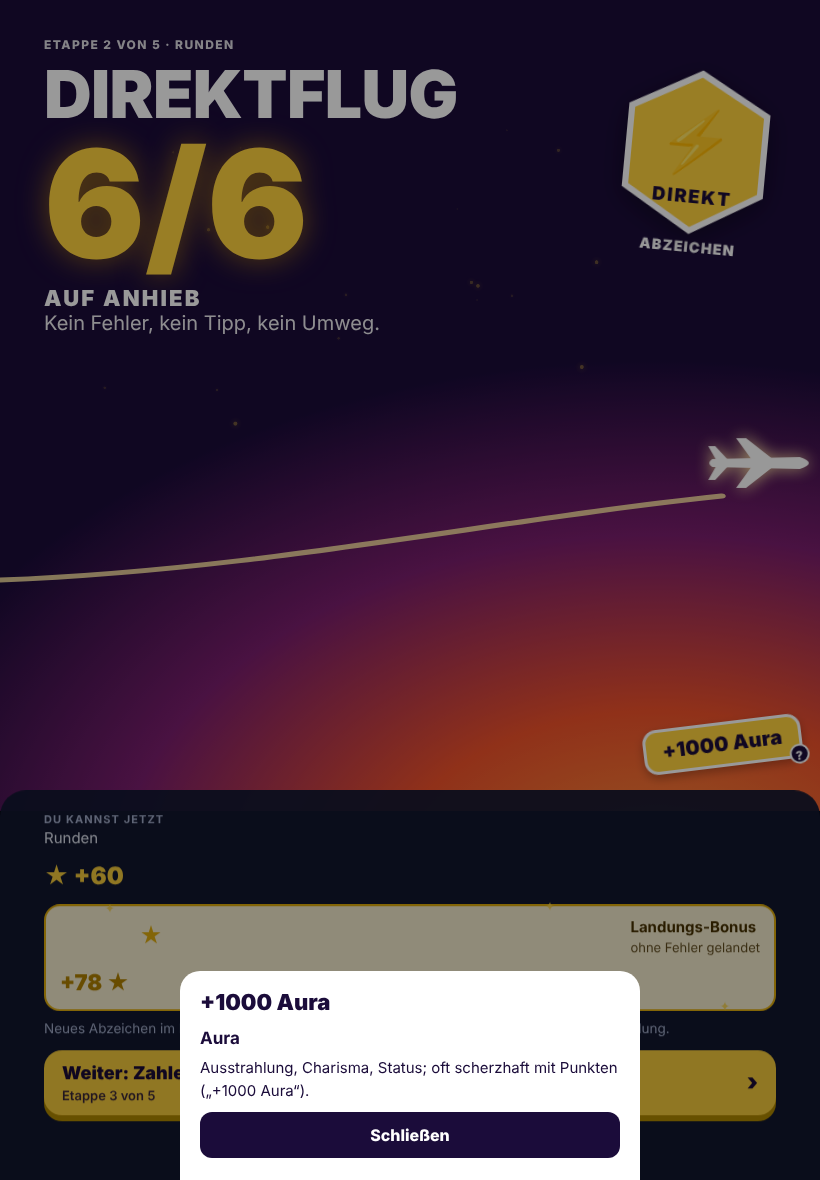
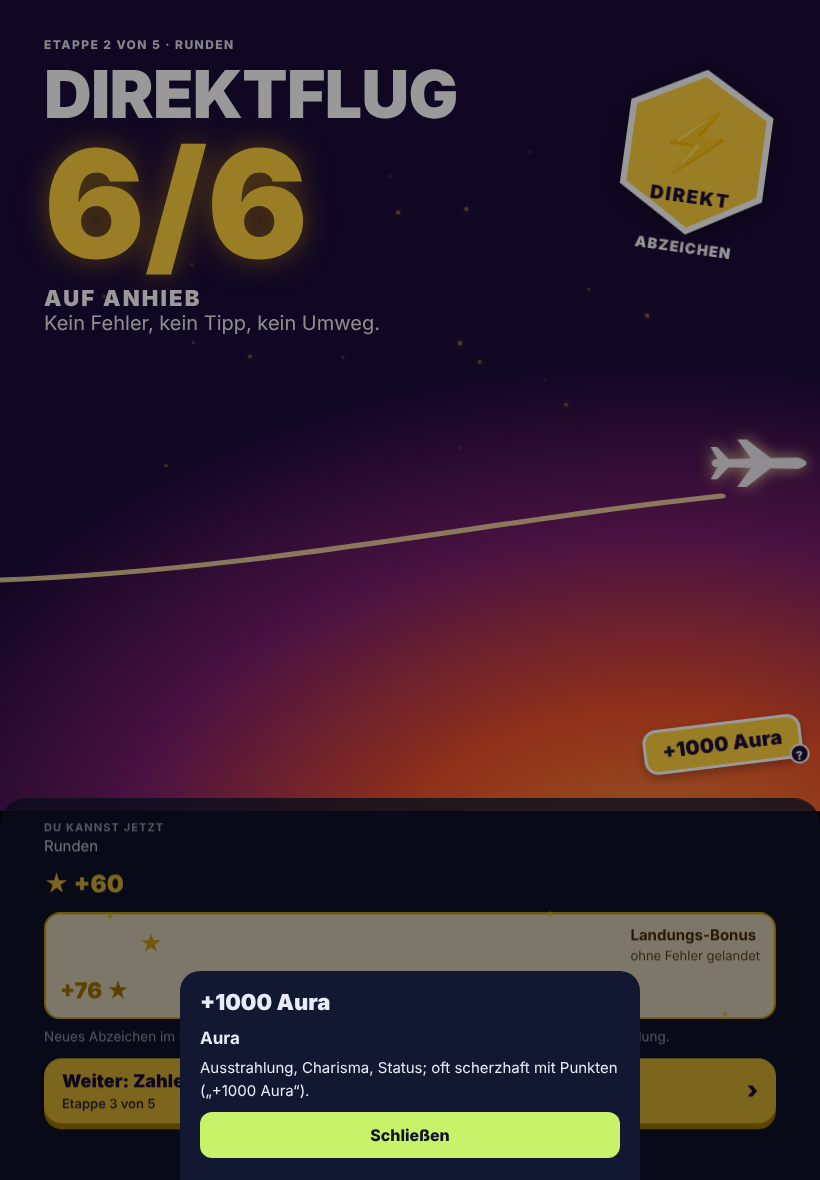
KJ 2 (0.93.1): M1 Zur Reisekarte als Textlink (nachts lesbar), M2 keine Mini-Linien auf der Abflugtafel; S1 Anrede-Sticker auf der Ecke der ersten Karte unter 600 px, S2 Fortschritt vor Zusatz, S3 ein Zähler beim Nachbessern, S4 Nachtfarben, S5 Lehrer (Fahrplan-Kopf, Stand-Satz, + n Zusatz in der Gr
Claude-Session: https://claude.ai/code/session_01RWRKSAaEXiAwwpv8KARTkF

diff --git a/lernen.js b/lernen.js
@@ -1458,6 +1458,7 @@ async function viewReise(arg) {
     }
     lernErsetze(main, lernRahmen(kind, 'reise', ...lernAbflugtafel(d, { n, et, nWdh, wdhRest, wdhFertig: wdhGemacht, ort, ws }),
       (mitKarte || lernRkAnsicht(kind.id) === 'tafel') ? el('button', { type: 'button', class: 'lr-textlink rk-zur-karte', onclick: () => { lernRkAnsicht(kind.id, 'karte'); render(); } }, 'Zur Reisekarte ›') : null));
+    lernDockErstNachTafel(main); // KJ 2 S6
     lernExFreiBeimStart(d); if (!document.querySelector('.lr-abschluss')) lernZpGeschafftZeigen(d); return;
   }
   const teile = [el('header', { class: 'lr-kopf lr-kopf-kurz' }, el('p', { class: 'lr-gruss' }, `Hallo ${kind.name}!`)), lernExKarte(d), lernNachbuchungHinweis(d)].filter(Boolean);
@@ -1594,29 +1595,31 @@ function lernAbflugtafel(d, { n, et, nWdh, wdhRest = 0, wdhFertig = false, ort =
       el('p', {}, el('b', {}, n.titel), ' sitzt noch nicht ganz sicher – das hat der Nachtest gezeigt. Wir frischen es kurz auf.'),
       danach ? el('p', { class: 'lr-leise' }, `Danach geht es weiter mit ${danach.stadt}: ${danach.titel}.`) : null)
     : frueher ? el('p', { class: 'lr-leise lr-rueckreise-hinweis' }, `${n.titel} ist Stoff aus Klasse ${kl(n)}. Du brauchst ihn für das, was danach kommt.`) : null;
+  const anrede = lernJwPlatz(kind.id, 'anrede', 'anrede', () => lernJwAnrede(kind.id));
+  const ecke = (karte) => { if (karte && anrede && innerWidth < 600) { karte.classList.add('lr-jw-ecke-traeger'); anrede.classList.add('lr-jw-ecke'); karte.append(anrede); } return karte; };
+  const ersteKarte = (d.nachbessern || []).length ? lernNbKarte(d) : null;
   return [
     el('header', { class: 'lr-kopf lr-tafelkopf' }, el('h1', { class: 'lr-titel' }, 'Abflüge · ', kind.name),
-      lernJwPlatz(kind.id, 'anrede', 'anrede', () => lernJwAnrede(kind.id)), // JW: Anrede „Digga“ einmal je Lerntag
+      innerWidth >= 600 ? anrede : null, // JW: Anrede „Digga“ einmal je Lerntag (KJ 2 S1: unter 600 px auf der Ecke der ersten Karte)
       el('a', { class: 'lr-chip-stern', href: `#/reisepass/${kind.id}`, 'aria-label': `${lernZahl(d.konto?.sterne ?? 0)} Sterne – zum Reisepass` }, '★ ' + lernZahl(d.konto?.sterne ?? 0))),
     // K3: oben drei Mini-Linien GYM · RS · IB; Antippen öffnet „Mein Weg · Stand“ bei dieser Schulart
     // KJ §0: Nachbessern immer zuerst; solange es ansteht, ist die Expedition nur ein Chip
-    (d.nachbessern || []).length ? [lernNbKarte(d), lernExChip(d)] : lernExKarte(d), // EX-App: offene Expedition = oberste, größte Karte, vor dem nächsten Flug
+    (d.nachbessern || []).length ? [ecke(ersteKarte), lernExChip(d)] : lernExKarte(d), // EX-App: offene Expedition = oberste, größte Karte, vor dem nächsten Flug
     rueckKarte,
     lernNachbuchungHinweis(d),
-    el('section', { class: 'lr-abflugtafel', 'aria-label': 'Abflugtafel' },
+    (ersteKarte ? (x) => x : ecke)(el('section', { class: 'lr-abflugtafel', 'aria-label': 'Abflugtafel' },
       el('a', { class: 'lr-flug lr-flug-jetzt', href: ziel },
         el('span', { class: 'lr-flug-ort' }, el('span', { class: 'lr-klapp', role: 'img', 'aria-label': code(n) }, ...[...code(n).slice(0, 9)].map((c, i) => el('i', { style: `--i:${i}` }, c))), el('small', {}, n.titel)),
         el('span', { class: 'lr-flug-status lr-einsteigen' }, el('b', {}, n.laeuft ? 'TEST LÄUFT' : testDran ? 'TEST BEREIT' : 'EINSTEIGEN'), et.n ? el('small', {}, testDran ? 'alle Etappen sitzen' : `${offen} von ${et.n} Etappen offen`) : null)),
       ...weitere.slice(0, maxZ).map((e) => zeile(e, e.geschafft ? 'GELANDET' : e.fertig ? 'UNTERWEGS' : 'WARTET', e.geschafft ? ' lr-flug-gelandet' : '')),
       ...d.kann.slice(0, 1).map((e) => zeile(e, 'GELANDET', ' lr-flug-gelandet')),
-      ...d.spaeter.slice(0, 1).map((e) => zeile(e, `AB KLASSE ${kl(e) ?? ''}`.trim(), ' lr-flug-spaeter'))),
+      ...d.spaeter.slice(0, 1).map((e) => zeile(e, `AB KLASSE ${kl(e) ?? ''}`.trim(), ' lr-flug-spaeter')))),
     // 0.87.2 S1: Ansage direkt unter der Abflugtafel (vor Fortschritt und Stempel) – auf dem Handy im Blick
     nWdh && !n.laeuft && !testDran ? (ws?.neu ? lernCheckinAnsage(ws) : el('p', { class: 'lr-leise lr-start-info' }, `Erst ${nWdh} ${nWdh === 1 ? 'Wiederholung' : 'Wiederholungen'}, dann ${n.stadt}.`)) : null,
+    band, // KJ 2 S2: Fortschrittslinie gehört zu „Gerade dran“ – vor der Zusatz-Karte
     lernZpKarte(d), // KJ §0.4: Zusatz · eingeplant unter „Gerade dran“
-    band,
     lernSjKarte(d), // KJ §0.5: Mein Schuljahr
-    // EX K2: Stand-Kacheln GYM · RS · IB stehen unter der Abflugtafel (die Expedition ist wörtlich die oberste Karte)
-    d.u && kind.klasse ? lernMiniLinien(lernStandModell(d.u, kind), (y, kl) => `#/weg/${kind.id}-stand${kl ? `-${y.sa}-${kl}` : ''}`) : null,
+    // KJ 2 M2: keine Mini-Linien GYM · RS · IB mehr auf der Abflugtafel (widersprachen „Mein Schuljahr“); sie bleiben unter „Meine Route 5–10“ bzw. im Linienplan
     el('div', { class: 'lr-tafelchips' }, el('a', { href: `#/reisepass/${kind.id}` }, `◎ ${d.konto?.stempel ?? 0} Stempel`), el('span', {}, 'Abflug, wann es dir passt')),
     lernKnobelDesTages(d),
     wdhRest ? el('a', { class: 'lr-textlink', href: `#/wiederholen/${kind.id}` }, `Noch ${wdhRest} ${wdhRest === 1 ? 'Wiederholung' : 'Wiederholungen'} offen – wenn du magst`) : null,
@@ -1644,6 +1647,14 @@ function lernAbflugtafel(d, { n, et, nWdh, wdhRest = 0, wdhFertig = false, ort =
   ];
 }
 
+// KJ 2 S6: Die schwebende „Einsteigen“-Leiste erscheint erst, wenn die Abflugtafel (ihre Zeile mit dem gelben „EINSTEIGEN“) aus dem Bild gescrollt ist – nie zweimal derselbe Knopf übereinander.
+// Ausgeblendet nur unsichtbar und nicht tippbar (bleibt im Ablauf, kein Springen); ohne IntersectionObserver wie bisher.
+function lernDockErstNachTafel(wurzel) {
+  const tafel = wurzel.querySelector('.lr-abflugtafel .lr-flug-jetzt') || wurzel.querySelector('.lr-abflugtafel'); const dock = wurzel.querySelector('.lr-dock-start'); if (!tafel || !dock || !('IntersectionObserver' in window)) return;
+  dock.classList.add('lr-dock-weg');
+  const io = new IntersectionObserver((xs) => { if (!dock.isConnected) { io.disconnect(); return; } const x = xs[xs.length - 1]; dock.classList.toggle('lr-dock-weg', x.isIntersecting); }, { threshold: 0 });
+  io.observe(tafel);
+}
 // ---------- KJ (0.93.0): drei Karten der Kinderseite – Vorgabe inhalte/pruefung/kind/karten/umsetzung.md ----------
 // Reihenfolge: Nachbessern (immer zuerst) · Expedition (bei Nachbessern nur als Chip) · Gerade dran · Zusatz · eingeplant · Mein Schuljahr.
 const lernEinheitVon = (d, id) => (d.mit || []).find((x) => Number(x.id) === Number(id)) || (d.u?.einheiten || []).find((x) => Number(x.id) === Number(id)) || {};
@@ -3302,7 +3313,8 @@ function lernJwAnrede(kindId, opts = {}) {
 function lernJwBedeutung(z, vorher) {
   document.querySelectorAll('.lr-jw-blatt').forEach((x) => x.remove());
   const zu = () => { blatt.remove(); vorher?.focus?.({ preventScroll: true }); };
-  const blatt = el('div', { class: 'lr-jw-blatt', role: 'dialog', 'aria-modal': 'true', 'aria-label': 'Bedeutung', onclick: (ev) => { ev.stopPropagation(); if (ev.target === blatt) zu(); } },
+  const nacht = !!vorher?.closest?.('.lr-abflug-nacht, .lr-nacht, .lr-ab-nacht'); // KJ 2 K2a: nachts dunkel wie die übrigen Blätter
+  const blatt = el('div', { class: 'lr-jw-blatt' + (nacht ? ' lr-jw-blatt-nacht' : ''), role: 'dialog', 'aria-modal': 'true', 'aria-label': 'Bedeutung', onclick: (ev) => { ev.stopPropagation(); if (ev.target === blatt) zu(); } },
     el('div', { class: 'lr-jw-blatt-innen' },
       el('p', { class: 'lr-jw-blatt-sticker' }, z.sticker),
       ...z.wortListe.filter((w) => !(w.id === 'digga' && z.wortListe.length > 1)).map((w) => el('div', { class: 'lr-jw-wort' }, el('b', {}, w.wort), w.gesprochen ? el('small', {}, ` · gesprochen „${w.gesprochen}“`) : null,
@@ -3702,6 +3714,12 @@ function lernThemaSeite(ctx, etappen, start, karteNr) {
   };
   const zeichneUeben = () => {
     const e = aktKarte; gezeichnet = e;
+    // NB-App: wieder offene Etappe (schule_konto.nachbessern) – Folge x von 3; KJ 2 S3: die Nachbessern-Leiste ersetzt den Zähler der Etappen-Leiste
+    const nbE = (ctx.konto?.nachbessern || []).find((x) => Number(x.einheit_id) === Number(ctx.einheit) && x.lernziel === e.lernziel) || null;
+    const nb = nbE ? { folge: Math.max(0, Number(nbE.folge) || 0), noetig: Number(nbE.folge_noetig) || 3 } : null;
+    const nbLeiste = el('div', { class: 'lr-nb-leiste', role: 'status' });
+    const nbZeichnen = () => { if (!nb) return; lernErsetze(nbLeiste, el('b', {}, '↻ NACHBESSERN'), lernNbKreise(Math.min(nb.folge, nb.noetig), nb.noetig), el('span', {}, `${Math.min(nb.folge, nb.noetig)} von ${nb.noetig} in Folge`)); };
+    nbZeichnen();
     const mitAufg = etappen.filter((x) => x.aufgaben.length); const pos = mitAufg.indexOf(e);
     const wechsel = (d) => el('button', { type: 'button', class: 'lr-pfeilknopf', 'aria-label': d < 0 ? 'Vorige Etappe' : 'Nächste Etappe', disabled: !mitAufg[pos + d],
       onclick: () => { aktKarte = mitAufg[pos + d]; stufe = 0; weiterueben = false; zeichneUeben(); } }, d < 0 ? '‹' : '›');
@@ -3710,7 +3728,7 @@ function lernThemaSeite(ctx, etappen, start, karteNr) {
       ...[[0, 'alle'], [1, 'leicht'], [2, 'mittel'], [3, 'schwer']].filter(([n]) => !n || stufenDa.includes(n))
         .map(([n, t]) => el('button', { type: 'button', class: stufe === n ? 'on' : '', 'aria-pressed': String(stufe === n), onclick: () => { stufe = n; zeichneUeben(); } }, t))) : null;
     const punkte = el('div', { class: 'lr-lk-punkte' });
-    const zeichnePunkte = () => e.neueRegel
+    const zeichnePunkte = () => nb ? lernErsetze(punkte, nbLeiste) : e.neueRegel
       // W176: Checkliste statt Punkten; daneben der Zähler „heute selbst gelöst“
       ? lernErsetze(punkte, e.sitzt || e.fertig ? el('small', {}, e.faellig ? 'Gelandet – heute wiederholen' : e.sicher ? 'Sicher! Du kannst trotzdem weiterüben.' : 'Gelandet! Du kannst trotzdem weiterüben.') : lernCheckliste(e),
         el('small', { class: 'lr-heute' }, `heute ${lernHeute(ctx.kind)} ${lernHeute(ctx.kind) === 1 ? 'Aufgabe' : 'Aufgaben'} selbst gelöst`))
@@ -3741,11 +3759,6 @@ function lernThemaSeite(ctx, etappen, start, karteNr) {
     let sterne = 0, nr = 0, fehlFolge = 0, richtFolge = 0; // richtFolge: JW-Serie 5/10 in Folge richtig; fehlFolge: falsche Bordkarten hintereinander auf dieser Karte (V8)
     const naechsteKarte = etappen.slice(e.nr).find((x) => !x.fertig && x.aufgaben.length) || etappen.find((x) => x !== e && !x.fertig && x.aufgaben.length);
     // NB-App: wieder offene Etappe (schule_konto.nachbessern) – Leiste über der Bordkarte, Folge x von 3; bei 3 in Folge „Sitzt wieder!“ statt der Landung
-    const nbE = (ctx.konto?.nachbessern || []).find((x) => Number(x.einheit_id) === Number(ctx.einheit) && x.lernziel === e.lernziel) || null;
-    const nb = nbE ? { folge: Math.max(0, Number(nbE.folge) || 0), noetig: Number(nbE.folge_noetig) || 3 } : null;
-    const nbLeiste = el('div', { class: 'lr-nb-leiste', role: 'status' });
-    const nbZeichnen = () => { if (!nb) return; lernErsetze(nbLeiste, el('b', {}, `↻ NACHBESSERN · ${nbE.etappe || e.titel}`), lernNbKreise(Math.min(nb.folge, nb.noetig), nb.noetig), el('span', {}, `${Math.min(nb.folge, nb.noetig)} von ${nb.noetig} in Folge`)); };
-    nbZeichnen();
     const nbFertig = () => { // Bestätigung (kurz, ohne Extra-Sterne): drei Haken, „Sitzt wieder!“, weiter zur nächsten Nachbessern-Etappe bzw. zum nächsten Flug
       const rest = (ctx.konto?.nachbessern || []).filter((x) => x !== nbE); if (ctx.konto) ctx.konto.nachbessern = rest; lernVergessen(ctx.kind);
       const nf = ctx.u ? lernReiseDaten(ctx.u, ctx.kind)?.naechste : null;
@@ -3943,7 +3956,7 @@ function lernThemaSeite(ctx, etappen, start, karteNr) {
       auf.node.addEventListener('keydown', (ev) => { if (ev.key === 'Enter' && ev.target.tagName === 'INPUT') { ev.preventDefault(); if (pruefen.isConnected) pruefen.click(); } });
       if (neu) {
         lernErsetze(dock, auf.tasten ? lernTastenfeld(auf.tasten, pruefen) : pruefen);
-        lernErsetze(flaeche, erkl, erklBox, nb && !a.misch ? nbLeiste : null,
+        lernErsetze(flaeche, erkl, erklBox,
           el('section', { class: 'lr-karte-box lr-aufgabe lr-bordkarte' },
             el('div', { class: 'lr-bord-kopf' }, el('span', {}, a.misch ? `BORDKARTE ${nr} · AUS DEINER REISE` : `BORDKARTE ${nr} · ${ortCode}`), lernStufeZeichen(a)),
             a.misch ? el('p', { class: 'lr-misch-hinweis' }, 'Aus deiner Reise – erkennst du, was gefragt ist?') : null,
@@ -3952,7 +3965,7 @@ function lernThemaSeite(ctx, etappen, start, karteNr) {
           hilfeBox, meldung,
           ctx.leitung ? lernAendern({ einheit_id: ctx.einheit, lernziel: e.lernziel, aufgabe_id: a.id, lernender_id: ctx.kind }, { bezug: 'bordkarte', wo: `Bordkarte „${String(a.frage?.text || '').slice(0, 60)}“` }) : null, dock);
       } else lernErsetze(flaeche,
-        erkl, erklBox, nb && !a.misch ? nbLeiste : null,
+        erkl, erklBox,
         el('section', { class: 'lr-karte-box lr-aufgabe' },
           el('p', { class: 'lr-ueber' }, `AUFGABE ${nr} `, lernStufeZeichen(a)), a.misch ? el('p', { class: 'lr-misch-hinweis' }, 'Aus deiner Reise – erkennst du, was gefragt ist?') : null, auf.node,
           pruefen, tipp ? el('div', { class: 'lr-knopfzeile' }, tipp) : null),
@@ -5612,7 +5625,7 @@ async function viewKindLehrplan(id, rest = []) {
     const fertig = ts.filter((y) => gekonnt(stufeVon(y))).length;
     const meta = [jetzt?.gebiet || o?.kontinent, jetzt ? `${LERN_LW_SA[sa]} ${lernMxKl(jetzt, sa) || '–'}` : null, ts.length > 1 ? `${fertig}/${ts.length} Themen` : null, dran && jetzt ? `Etappe ${s.etappe_jetzt || Math.min(g + 1, n)}/${n}` : null].filter(Boolean).join(' · ');
     // LW-2 (4a): dauerhafter Hinweis, solange eine harte Voraussetzung fehlt oder später kommt
-    const tsZp = ts.filter((y) => ['dran', 'kommt'].includes(stufeVon(y).stufe)); const zp = !!px.zusatz_eingeplant || (tsZp.length > 0 && tsZp.every(zusEingeplant)); // ZP: eigener Platz, keine Reihenfolge-Warnung, sperrt nichts
+    const tsZp = ts.filter((y) => ['dran', 'kommt'].includes(stufeVon(y).stufe)); const zp = !!px.zusatz_eingeplant || (tsZp.length > 0 && tsZp.every(zusEingeplant)); const zpTeil = zp ? 0 : tsZp.filter(zusEingeplant).length; // KJ 2 S5c: Zusatz in einer Gruppe → Marke „+ n Zusatz“ // ZP: eigener Platz, keine Reihenfolge-Warnung, sperrt nichts
     const kf = zp ? [] : konfl.filter((k) => ts.includes(k.x));
     const warn = kf.map((k) => el('span', { class: 'lw-fp-warn-zeile' }, `braucht „${k.v.titel}“ – ${k.fall === 1 ? `kommt erst auf Platz ${platz(k.v)}` : 'nicht gelernt, nicht im Plan'}`));
     const griff = el('span', { class: 'lw-gr', role: 'button', 'aria-label': `${titel} ziehen`, title: 'Ziehen zum Umsortieren' }, '⋮⋮');
@@ -5623,6 +5636,7 @@ async function viewKindLehrplan(id, rest = []) {
       onmouseleave: () => { zst.hl = null; matrixWrap.querySelectorAll('.lw-karte.lw-hl').forEach((c) => c.classList.remove('lw-hl')); } },
       griff, el('span', { class: 'lw-nr' }, String(j + 1)),
       el('button', { type: 'button', class: 'lw-fp-text', onclick: () => { if (jetzt) oeffne(jetzt.id); } }, el('b', {}, titel), el('small', {}, meta),
+        zpTeil ? el('span', { class: 'lw-zus-marke lw-zp-marke lw-fp-zp-teil' }, `+ ${zpTeil} Zusatz`) : null,
         zp && jetzt ? el('small', { class: 'lw-fp-zp-zeile' }, el('span', { class: 'lw-zus-marke lw-zp-marke' }, 'ZUSATZ · EINGEPLANT'), ` ${zusXY(jetzt).x} von ${zusXY(jetzt).y} Etappen · ohne Flug-Test`) : null),
       el('span', { class: 'lw-pf' },
         el('button', { type: 'button', 'aria-label': `${titel} nach oben`, disabled: j === 0 ? true : null, onclick: () => tausche(j - 1) }, '↑'),
@@ -5642,7 +5656,7 @@ async function viewKindLehrplan(id, rest = []) {
   let konfl = [];
   const zeichneRail = () => {
     const mit = ordne(); const nDran = mit.filter((m) => m[2] === 'dran').length; konfl = konflikte();
-    const nZus = sichtbar.filter((i) => { const ts = fpThemen(plan[i]); return plan[i].zusatz_eingeplant || (ts.length && ts.every(zusEingeplant)); }).length;
+    const nZus = sichtbar.reduce((n, i) => { const ts = fpThemen(plan[i]); return n + (plan[i].zusatz_eingeplant && !ts.some(zusEingeplant) ? 1 : ts.filter(zusEingeplant).length); }, 0);
     const nThemen = sichtbar.reduce((n, i) => n + fpThemen(plan[i]).filter((x) => !zusEingeplant(x)).length, 0);
     const fehlt = zst.zeigen === 'raus' ? fehlend() : []; const bisKl = Math.max(...klassen);
     const zeilen = []; sichtbar.forEach((i, j) => { if (j === 0 && nDran) zeilen.push(el('li', { class: 'lw-rsek' }, 'GERADE DRAN')); if (j === nDran) zeilen.push(el('li', { class: 'lw-rsek' }, 'KOMMT NOCH'));

diff --git a/style.css b/style.css
@@ -5919,3 +5919,34 @@ body.rk-kopf-oben:has(#tabs[hidden]) { padding-bottom: 0; }
 .lr-jw-szene { bottom: 44px; }
 .lr-jw-blatt .lr-jw-zu { background: #1B0C3A; color: #fff; border: 0; border-radius: 12px; min-height: 46px; font: 800 16px system-ui, sans-serif; cursor: pointer; }
 @media (max-width: 380px) { .rk-schwebe-karte.kompakt { grid-template-columns: 1fr; } .rk-schwebe-karte.kompakt .rk-start { justify-content: center; } } /* 360 px: Stadtname nicht gekürzt */
+/* ---------- KJ 2 (0.93.1) ---------- */
+/* M1: „Zur Reisekarte ›“ wie die übrigen Textlinks – durchsichtig, ohne Rand, unterstrichen (nachts lesbar) */
+.rk-zur-karte { background: transparent; border: 0; padding: 4px 8px; color: var(--lr-text, inherit); font: inherit; font-size: 14px; font-weight: 700; text-decoration: underline; cursor: pointer; min-height: 44px; }
+/* S1: Anrede-Sticker unter 600 px schräg auf der rechten oberen Ecke der ersten Karte (ragt ~12 px über den Rand) */
+.lr-jw-ecke-traeger { position: relative; overflow: visible; }
+.lr-jw-ecke { position: absolute; top: -14px; right: -12px; z-index: 3; margin: 0; }
+.lr-abflugtafel.lr-jw-ecke-traeger { overflow: visible; }
+.lr-tafelkopf .lr-titel { white-space: nowrap; overflow: hidden; text-overflow: ellipsis; }
+/* S4: Nacht – Nachbessern und Zusatz dunkel */
+.lr-abflug-nacht .lr-nb-karte, .lr-nacht .lr-nb-karte { background: #2E1D14; border-color: #8A4A26; color: #F6E3D6; }
+.lr-abflug-nacht .lr-nb-wo, .lr-nacht .lr-nb-wo, .lr-abflug-nacht .lr-nb-karte .lr-leise, .lr-nacht .lr-nb-karte .lr-leise { color: #E0C3AE; }
+.lr-abflug-nacht .lr-nb-kreise i, .lr-nacht .lr-nb-kreise i { background: #2E1D14; border-color: #C8642B; }
+.lr-abflug-nacht .lr-nb-kreise i.an, .lr-nacht .lr-nb-kreise i.an { background: #2E9D5B; border-color: #2E9D5B; }
+.lr-abflug-nacht .lr-nb-leiste, .lr-nacht .lr-nb-leiste { background: #2E1D14; border-color: #8A4A26; color: #F6E3D6; }
+.lr-abflug-nacht .lr-zp-karte, .lr-nacht .lr-zp-karte { background: #27231A; border-color: #8C7A55; color: #EDE3CF; }
+.lr-abflug-nacht .lr-zp-kopf, .lr-nacht .lr-zp-kopf { color: #D9BE86 !important; }
+.lr-abflug-nacht .lr-zp-titel small, .lr-nacht .lr-zp-titel small, .lr-abflug-nacht .lr-zp-karte .lr-leise, .lr-nacht .lr-zp-karte .lr-leise { color: #CDBF9F; }
+.lr-abflug-nacht .lr-zp-balken i, .lr-nacht .lr-zp-balken i { background: #4A4231; } .lr-abflug-nacht .lr-zp-balken i.voll, .lr-nacht .lr-zp-balken i.voll { background: #D9BE86; }
+.lr-abflug-nacht .lr-zp-knopf, .lr-nacht .lr-zp-knopf { background: #1B1812; color: #EDE3CF; border-color: #EDE3CF; }
+/* S5: Lehrer – Fahrplan-Kopf ohne Umbruch im Wort, Zahl-Zeile darunter; Stand-Satz im Detail bricht um */
+.lw-rk { flex-wrap: wrap; row-gap: 0; } .lw-rk b { white-space: nowrap; } .lw-rk .lw-rk-zahl { flex: 1 1 100%; order: 2; }
+.lw-zp-stand, .lw-dkopf .lw-zp-marke { display: block; white-space: normal; overflow-wrap: anywhere; max-width: 100%; box-sizing: border-box; }
+.lw-fp-zp-teil { margin-left: 4px; }
+/* S6: Einsteigen-Leiste erst nach der Abflugtafel */
+.lr-dock-start { transition: opacity .2s, transform .2s; }
+.lr-dock-start.lr-dock-weg { opacity: 0; pointer-events: none; transform: translateY(12px); }
+@media (prefers-reduced-motion: reduce) { .lr-dock-start { transition: none; } }
+/* K2a: Bedeutungs-Blatt nachts dunkel */
+.lr-jw-blatt-nacht .lr-jw-blatt-innen { background: #121831; color: #E8ECF8; } .lr-jw-blatt-nacht .lr-jw-wort small { color: #A9B3D1; }
+.lr-jw-blatt-nacht .lr-jw-zu { background: #C9F26B; color: #0D1226; }
+.lr-jw-ecke { right: -8px; } .lr-jw-ecke .lr-jw-frage { right: -6px; }

diff --git a/index.html b/index.html
@@ -14,27 +14,27 @@
 <link rel="icon" href="icon.svg" type="image/svg+xml">
 <link rel="apple-touch-icon" href="icon-180.png">
 <link rel="stylesheet" href="vendor/leaflet-1.9.4/leaflet.css">
-<link rel="stylesheet" href="style.css?v=0.93.0">
+<link rel="stylesheet" href="style.css?v=0.93.1">
 <script src="https://cdnjs.cloudflare.com/ajax/libs/marked/15.0.7/marked.min.js" defer></script>
 <script src="vendor/leaflet-1.9.4/leaflet.js" defer></script>
-<script src="stay-tools.js?v=0.93.0" defer></script>
-<script src="stay-research.js?v=0.93.0" defer></script>
-<script src="stay-form.js?v=0.93.0" defer></script>
-<script src="stay-details.js?v=0.93.0" defer></script>
-<script src="stay-districts.js?v=0.93.0" defer></script>
-<script src="stay-review.js?v=0.93.0" defer></script>
-<script src="stay-desk.js?v=0.93.0" defer></script>
-<script src="stay-photos.js?v=0.93.0" defer></script>
-<script src="stay-trips.js?v=0.93.0" defer></script>
-<script src="stay-compare.js?v=0.93.0" defer></script>
-<script src="stay-refresh.js?v=0.93.0" defer></script>
-<script src="stay-workplace.js?v=0.93.0" defer></script>
-<script src="stay-notifications.js?v=0.93.0" defer></script>
-<script src="highlights.js?v=0.93.0" defer></script>
-<script src="roadbook.js?v=0.93.0" defer></script>
-<script src="lernen-welt.js?v=0.93.0" defer></script>
-<script src="lernen.js?v=0.93.0" defer></script>
-<script src="app.js?v=0.93.0" defer></script>
+<script src="stay-tools.js?v=0.93.1" defer></script>
+<script src="stay-research.js?v=0.93.1" defer></script>
+<script src="stay-form.js?v=0.93.1" defer></script>
+<script src="stay-details.js?v=0.93.1" defer></script>
+<script src="stay-districts.js?v=0.93.1" defer></script>
+<script src="stay-review.js?v=0.93.1" defer></script>
+<script src="stay-desk.js?v=0.93.1" defer></script>
+<script src="stay-photos.js?v=0.93.1" defer></script>
+<script src="stay-trips.js?v=0.93.1" defer></script>
+<script src="stay-compare.js?v=0.93.1" defer></script>
+<script src="stay-refresh.js?v=0.93.1" defer></script>
+<script src="stay-workplace.js?v=0.93.1" defer></script>
+<script src="stay-notifications.js?v=0.93.1" defer></script>
+<script src="highlights.js?v=0.93.1" defer></script>
+<script src="roadbook.js?v=0.93.1" defer></script>
+<script src="lernen-welt.js?v=0.93.1" defer></script>
+<script src="lernen.js?v=0.93.1" defer></script>
+<script src="app.js?v=0.93.1" defer></script>
 </head>
 <body>
 

diff --git a/sw.js b/sw.js
@@ -1,7 +1,7 @@
 // Service Worker: hält nur die App-Hülle vor (Dateien dieser Seite). Daten kommen immer live von app-api.
 const CACHE_PREFIX = 'ki-system:' + self.registration.scope + ':';
-const CACHE = CACHE_PREFIX + 'v175';
-const HUELLE = ['./', './index.html', './stay-compare.js?v=0.93.0', './stay-refresh.js?v=0.93.0', './stay-workplace.js?v=0.93.0', './stay-notifications.js?v=0.93.0', './stay-photos.js?v=0.93.0', './stay-trips.js?v=0.93.0', './stay-review.js?v=0.93.0', './stay-desk.js?v=0.93.0', './app.js?v=0.93.0', './highlights.js?v=0.93.0', './roadbook.js?v=0.93.0', './lernen-welt.js?v=0.93.0', './lernen.js?v=0.93.0', './stay-tools.js?v=0.93.0', './stay-research.js?v=0.93.0', './stay-form.js?v=0.93.0', './stay-details.js?v=0.93.0', './stay-districts.js?v=0.93.0', './vendor/leaflet-1.9.4/leaflet.js', './vendor/leaflet-1.9.4/leaflet.css', './style.css?v=0.93.0', './vendor/schriften/space-grotesk.woff2', './vendor/schriften/jetbrains-mono.woff2', './manifest.webmanifest', './icon.svg', './icon-180.png', './icon-512.png'];
+const CACHE = CACHE_PREFIX + 'v176';
+const HUELLE = ['./', './index.html', './stay-compare.js?v=0.93.1', './stay-refresh.js?v=0.93.1', './stay-workplace.js?v=0.93.1', './stay-notifications.js?v=0.93.1', './stay-photos.js?v=0.93.1', './stay-trips.js?v=0.93.1', './stay-review.js?v=0.93.1', './stay-desk.js?v=0.93.1', './app.js?v=0.93.1', './highlights.js?v=0.93.1', './roadbook.js?v=0.93.1', './lernen-welt.js?v=0.93.1', './lernen.js?v=0.93.1', './stay-tools.js?v=0.93.1', './stay-research.js?v=0.93.1', './stay-form.js?v=0.93.1', './stay-details.js?v=0.93.1', './stay-districts.js?v=0.93.1', './vendor/leaflet-1.9.4/leaflet.js', './vendor/leaflet-1.9.4/leaflet.css', './style.css?v=0.93.1', './vendor/schriften/space-grotesk.woff2', './vendor/schriften/jetbrains-mono.woff2', './manifest.webmanifest', './icon.svg', './icon-180.png', './icon-512.png'];
 const HUELLE_URLS = new Set(HUELLE.map(path => new URL(path, self.registration.scope).href));
 
 self.addEventListener('install', (e) => {

diff --git a/lernen/index.html b/lernen/index.html
@@ -13,10 +13,10 @@
 <link rel="manifest" href="manifest.webmanifest">
 <link rel="icon" href="../icon.svg" type="image/svg+xml">
 <link rel="apple-touch-icon" href="../icon-180.png">
-<link rel="stylesheet" href="../style.css?v=0.93.0">
-<script src="../lernen-welt.js?v=0.93.0" defer></script>
-<script src="../lernen.js?v=0.93.0" defer></script>
-<script src="schule.js?v=0.93.0" defer></script>
+<link rel="stylesheet" href="../style.css?v=0.93.1">
+<script src="../lernen-welt.js?v=0.93.1" defer></script>
+<script src="../lernen.js?v=0.93.1" defer></script>
+<script src="schule.js?v=0.93.1" defer></script>
 </head>
 <body data-area="lernen" class="lern-seite">
 <header class="top">

diff --git a/app.js b/app.js
@@ -3,7 +3,7 @@
    Schreibende Aktionen laufen nur nach einem Klick von Sebastian. */
 'use strict';
 
-const APP_VERSION = '0.93.0';
+const APP_VERSION = '0.93.1';
 const API = 'https://sdgzwxiqcijxfpcjpydw.supabase.co/functions/v1/app-api';
 // Serverfunktionen in der Datenbank-Region (Irland) ausführen: sonst läuft die Funktion nahe beim Gerät (z. B. Asien) und jede DB-Abfrage geht um die Welt (W155b, ~4 s statt ~0,3 s)
 const mitRegion = (u) => u + (u.includes('?') ? '&' : '?') + 'forceFunctionRegion=eu-west-1';

diff --git a/lernen/schule.js b/lernen/schule.js
@@ -4,7 +4,7 @@
    Stellt die Hilfen bereit, die lernen.js erwartet (el, store, route, render, setChrome …). */
 'use strict';
 
-const APP_VERSION = '0.93.0';
+const APP_VERSION = '0.93.1';
 // lernen.js leitet daraus die lernen-api ab; app-api selbst wird von dieser Seite nie aufgerufen.
 const API = 'https://sdgzwxiqcijxfpcjpydw.supabase.co/functions/v1/app-api';
 const mitRegion = (u) => u + (u.includes('?') ? '&' : '?') + 'forceFunctionRegion=eu-west-1';
